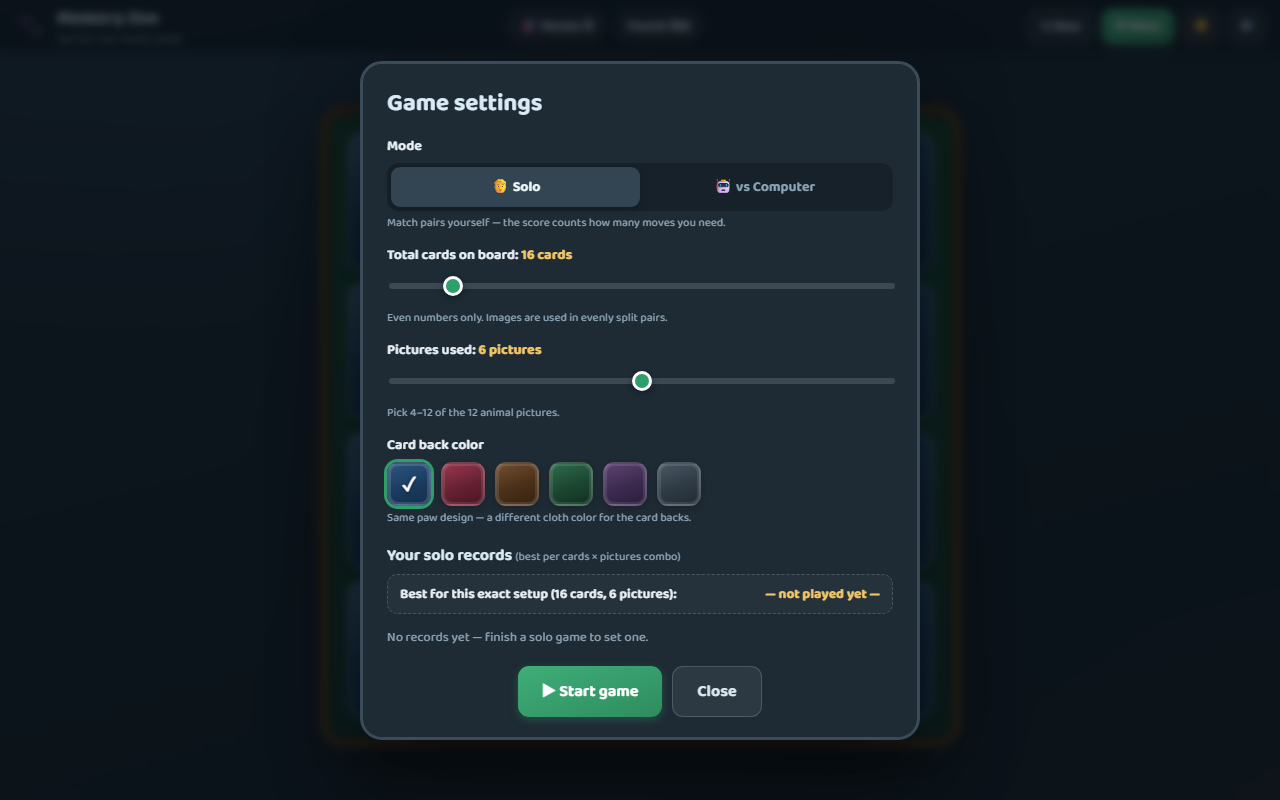
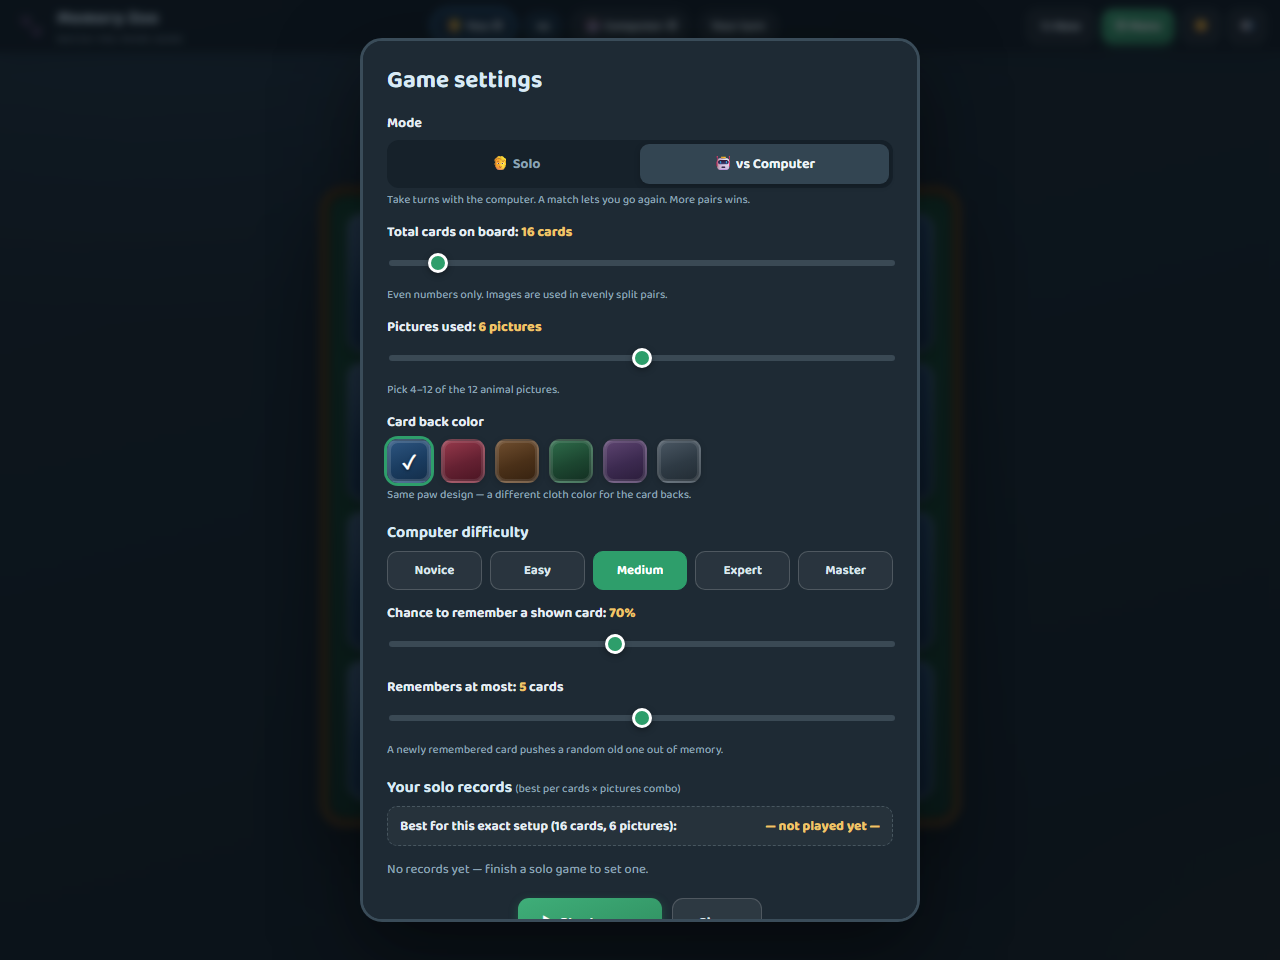
Board up to 62 cards (viewport-based tile sizing so tall boards fit) + 5 difficulty presets: Novice/Easy/Medium/Expert/Master

Changed region(s): [[0.2812, 0.0, 0.7188, 0.9688], [0.6562, 0.5625, 0.6875, 0.625], [0.25, 0.1875, 0.2812, 0.2188]]

diff --git a/game.js b/game.js
@@ -25,7 +25,7 @@ const SPRITES = [
 const IMG_DIR = 'TileSprites/animals/';
 
 // ------------------------------------------------ limits ----
-const MIN_TOTAL = 10, MAX_TOTAL = 48;       // even numbers only
+const MIN_TOTAL = 10, MAX_TOTAL = 62;       // even numbers only
 const MIN_IMAGES = 4, MAX_IMAGES = 12;
 const MIN_P = 50, MAX_P = 95;              // computer remember-chance, %
 const MIN_CAP = 3, MAX_CAP = 7;            // computer memory size, cards
@@ -251,9 +251,13 @@ function layout() {
   const wrap = $('#boardWrap');
   const cols = G.cols, rows = G.rows;
   const gap = Math.max(6, Math.min(10, Math.round(window.innerWidth / 140)));
-  const pad = 2 * gap + 24;
-  const availW = wrap.clientWidth - pad;
-  const availH = wrap.clientHeight - pad;
+  const pad = 2 * gap + 62;   // board frame/padding + wrap padding
+  const hud = $('#hud');
+  const hudH = hud ? hud.offsetHeight : 40;
+  // body grows with its content, so wrap.clientHeight alone can be
+  // content-driven — the window is the real budget (9x7 boards overflow otherwise)
+  const availW = Math.min(wrap.clientWidth, window.innerWidth - 24) - pad;
+  const availH = window.innerHeight - hudH - 36 - pad;
   let tile = Math.floor(Math.min((availW - (cols - 1) * gap) / cols,
                                  (availH - (rows - 1) * gap) / rows));
   tile = clamp(tile, 46, 140);
@@ -674,17 +678,31 @@ window.addEventListener('pointerdown', () => sfx.ac(), { once: true });
 // ------------------------------------------------ boot ------
 updateSoundBtn();
 S = sanitizeSettings(S);
+
+// debug view params (used for screenshots/testing, not part of the saved settings):
+// ?qa=menu opens the menu, ?qa=faces flips some cards face-up, ?qa=light forces the
+// light theme, ?back=burgundy|brown|forest|plum|slate previews a back color,
+// ?mode=vs shows the difficulty section, ?total=62 forces a board size
+// (all kept in range/even by sanitizeSettings)
+try {
+  const qp = new URLSearchParams(location.search);
+  if (qp.get('qa') === 'light') S.theme = 'light';
+  const md = qp.get('mode');
+  if (md === 'vs' || md === 'solo') S.mode = md;
+  const bk = qp.get('back');
+  if (bk === 'blue' || BACKS.indexOf(bk) >= 0) S.backColor = bk;
+  const tq = parseInt(qp.get('total'), 10);
+  if (Number.isFinite(tq)) S.total = tq;
+  S = sanitizeSettings(S);
+} catch (e) {}
+
 applyTheme();
 applyBackColor();
 startGame();
 
-// visual QA hook: index.html?qa=faces shows some cards face-up, ?qa=menu opens the menu,
-// ?qa=light forces the light theme, ?back=burgundy|brown|forest|plum|slate previews a back color
+// visual QA hook: faces / menu (light is handled with the params above)
 try {
   const qa = new URLSearchParams(location.search).get('qa');
-  const bk = new URLSearchParams(location.search).get('back');
-  if (qa === 'light') document.documentElement.dataset.theme = 'light';
-  if (BACKS.indexOf(bk) >= 0 && bk !== 'blue') document.documentElement.dataset.back = bk;
   if (qa === 'faces' && G) {
     // flip synchronously with no animation: the very first painted frame
     // is already static and face-up (flipping after a timer races screenshots)

diff --git a/index.html b/index.html
@@ -54,7 +54,7 @@
 
     <div class="field">
       <label for="rngTotal">Total cards on board: <b id="valTotal"></b></label>
-      <input type="range" id="rngTotal" min="10" max="48" step="2"/>
+      <input type="range" id="rngTotal" min="10" max="62" step="2"/>
       <p class="hint">Even numbers only. Images are used in evenly split pairs.</p>
     </div>
 
@@ -80,9 +80,11 @@
     <div id="diffBox">
       <h3>Computer difficulty</h3>
       <div class="presets" id="presetBtns">
-        <button type="button" data-p="50" data-c="3">Easy</button>
-        <button type="button" data-p="70" data-c="5">Normal</button>
-        <button type="button" data-p="90" data-c="7">Hard</button>
+        <button type="button" data-p="50" data-c="3">Novice</button>
+        <button type="button" data-p="60" data-c="4">Easy</button>
+        <button type="button" data-p="70" data-c="5">Medium</button>
+        <button type="button" data-p="80" data-c="6">Expert</button>
+        <button type="button" data-p="90" data-c="7">Master</button>
       </div>
       <div class="field">
         <label for="rngP">Chance to remember a shown card: <b id="valP"></b></label>

diff --git a/test_headless.js b/test_headless.js
@@ -43,7 +43,9 @@ const modeBtns = [
 ];
 const presetBtns = [
   { dataset: { p: '50', c: '3' }, classList: new CL() },
+  { dataset: { p: '60', c: '4' }, classList: new CL() },
   { dataset: { p: '70', c: '5' }, classList: new CL() },
+  { dataset: { p: '80', c: '6' }, classList: new CL() },
   { dataset: { p: '90', c: '7' }, classList: new CL() },
 ];
 

diff --git a/README.md b/README.md
@@ -26,7 +26,9 @@ bar switches between the dark and light palettes (choice is remembered).
 ### 🤖 vs Computer
 - Take turns. A match means the same player goes again; a miss turns both
   cards back over and passes the turn.
-- The computer's difficulty (all adjustable, plus Easy/Normal/Hard presets):
+- The computer's difficulty (all adjustable, plus five presets
+  **Novice 50 %/3 · Easy 60 %/4 · Medium 70 %/5 · Expert 80 %/6 ·
+  Master 90 %/7**):
   - **Remember chance:** 50–95 % per shown card. It tries to remember the
     location of every card revealed during play (its own *and* the player's).
   - **Memory size:** 3–7 cards. A newly remembered card evicts a random old
@@ -39,7 +41,7 @@ bar switches between the dark and light palettes (choice is remembered).
 - Whoever took more pairs off the board wins (draw is possible).
 
 ## Settings
-- **Total cards:** even numbers, 10–48.
+- **Total cards:** even numbers, 10–62.
 - **Pictures used:** 4–12 of the 12 animal sprites in `TileSprites/animals/`.
 - **Card back color:** blue (default), burgundy, dark brown, forest green,
   plum or slate — chosen from swatches in the menu, previewed live on the
@@ -53,7 +55,7 @@ bar switches between the dark and light palettes (choice is remembered).
   6+6+6+4+4 = 26 doesn't add up to 28; this game always sums exactly to the
   chosen total and never uses an odd count of a picture).
 - Board layout picks near-square / nice-rectangle grids (46 cards → 8×6 with
-  two random empty spots, etc.).
+  two random empty spots, 62 cards → 9×7 with one, etc.).
 
 ## Files
 | File | Purpose |
@@ -67,5 +69,5 @@ bar switches between the dark and light palettes (choice is remembered).
 
 Extras: sound on/off toggle (synthesized, no audio files), dark/light theme
 toggle, Esc closes dialogs, responsive layout for smaller screens,
-`index.html?qa=menu` / `?qa=faces` / `?qa=light` / `?back=burgundy` debug
-views used for the screenshots above.
+`index.html?qa=menu` / `?qa=faces` / `?qa=light` / `?back=burgundy` /
+`?total=62` debug views used for the screenshots above.
